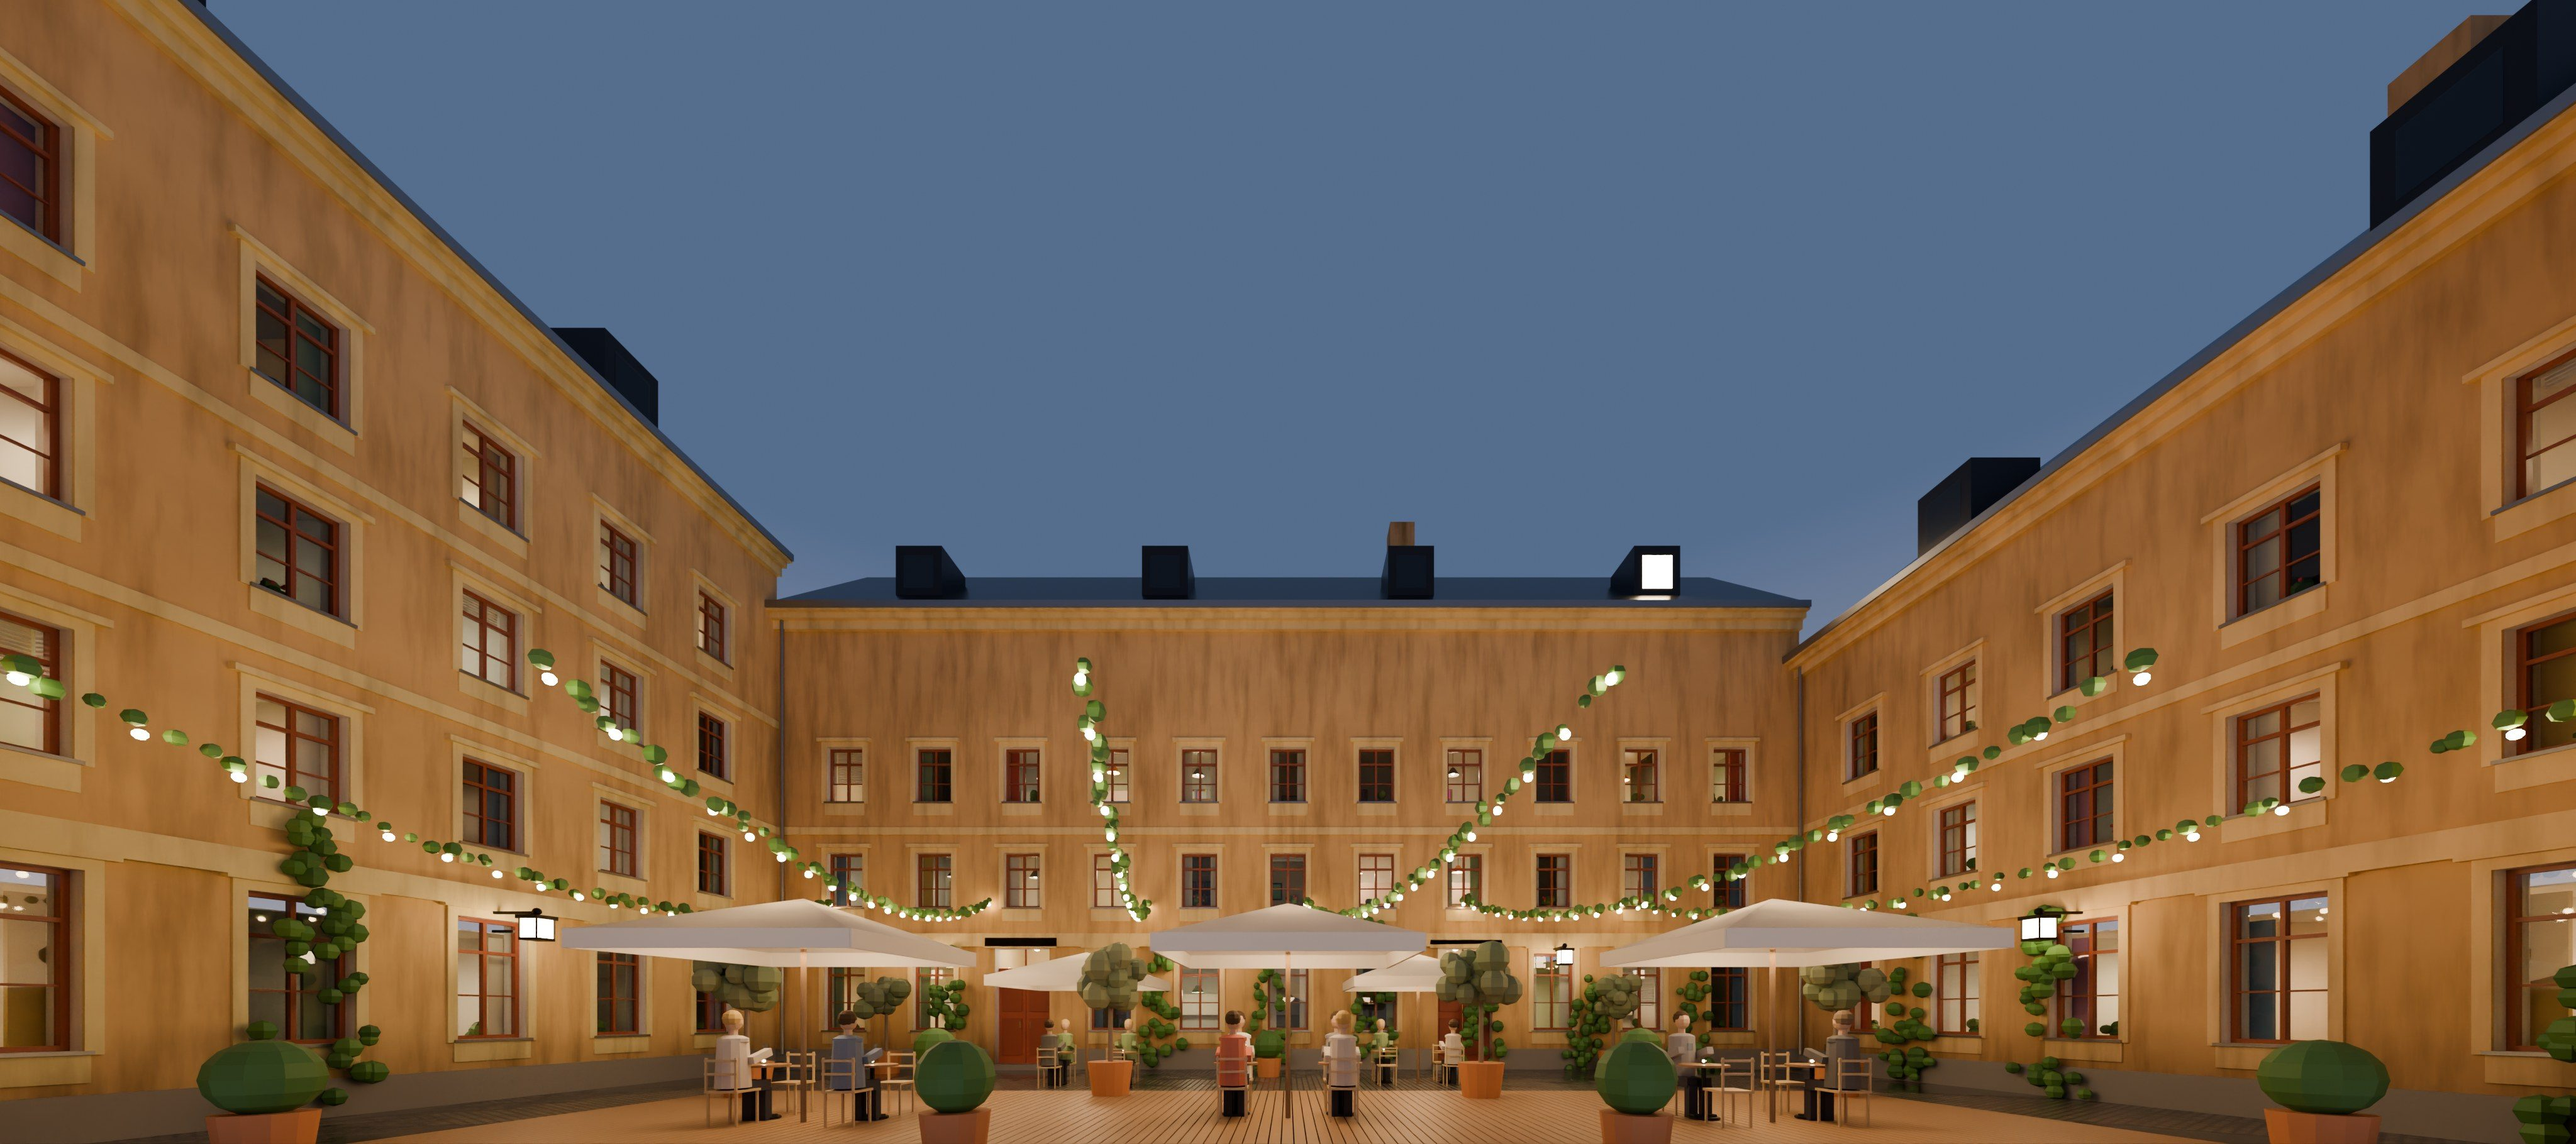
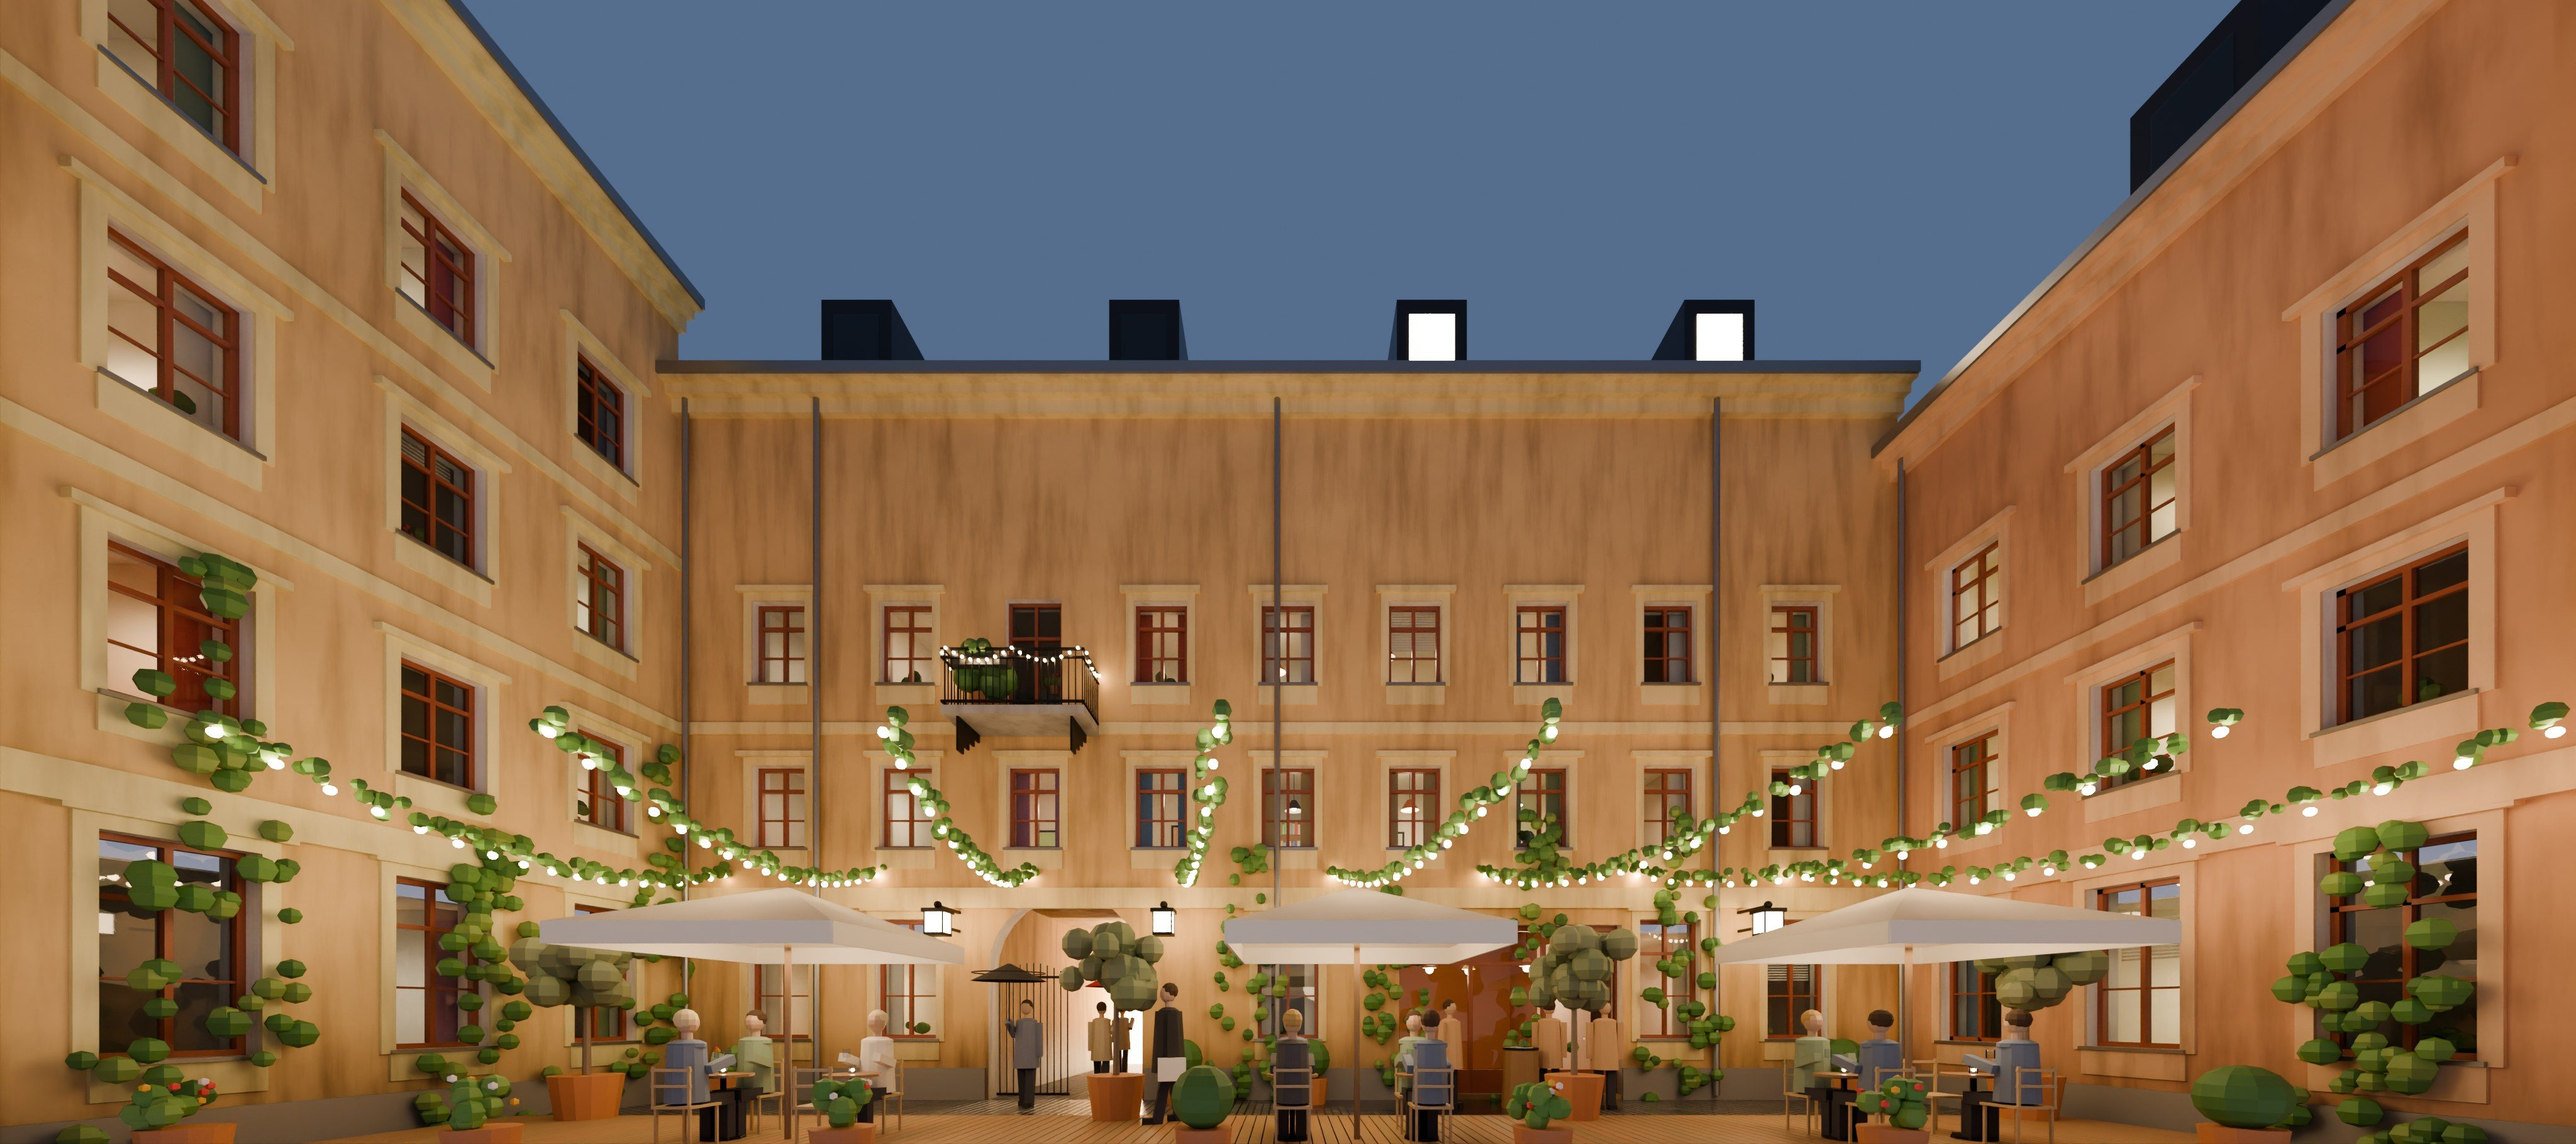
Staden: smalare innergård med portvalv ut mot gatan
Claude-Session: https://claude.ai/code/session_01ECUgMn1mwdrHwwSESPSFCN

diff --git a/public/js/rum-staden.js b/public/js/rum-staden.js
@@ -362,9 +362,9 @@ function innergardGlas(X, L, W, oldGrid) {
   for (let i = 0; i < n; i++) for (const [ya, yb] of [[W.y0, yt], [yt, W.y1]]) {
     const m = new THREE.Mesh(new THREE.PlaneGeometry(L / n - .09, yb - ya - .1), gm); m.position.set(X - .01, (ya + yb) / 2, -(i + .5) * L / n); m.rotation.y = -Math.PI / 2; m.layers.set(2); scene.add(m); }
 }
-// innergården: renderad från rummets mitt (x 0, z −11, ögonhöjd) med 10 mm-objektiv och lagd på en skiva där bortre huset står (x 21)
+// innergården: renderad från rummets mitt (x 0, z −11, ögonhöjd) med 10 mm-objektiv och lagd på en skiva där bortre huset står (x 13,5)
 function innergard(X, L) {
-  const D = 21, Wd = 2 * D * 1.8, Hd = Wd / 2.25, cy = 1.6 + .172 * Wd;
+  const D = 13.5, Wd = 2 * D * 1.8, Hd = Wd / 2.25, cy = 1.6 + .172 * Wd;
   const tex = new THREE.TextureLoader().load("film/innergard.jpg"); tex.encoding = THREE.sRGBEncoding; tex.anisotropy = 4;
   const m = new THREE.Mesh(new THREE.PlaneGeometry(Wd, Hd), new THREE.MeshBasicMaterial({ map: tex, fog: false, toneMapped: false }));
   m.position.set(D, cy, -11); m.rotation.y = -Math.PI / 2; m.layers.set(1); scene.add(m);
